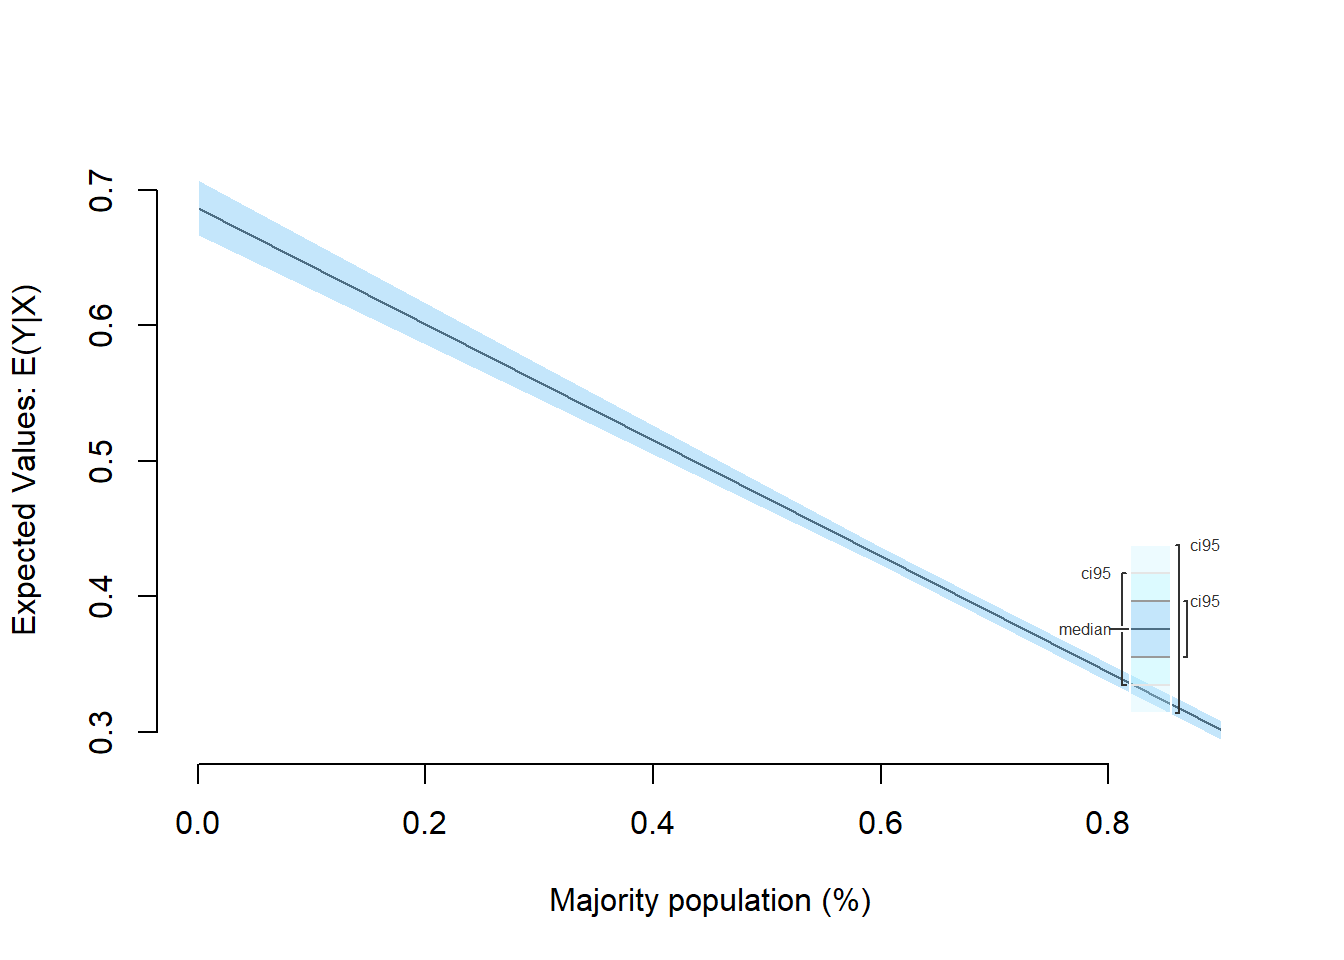
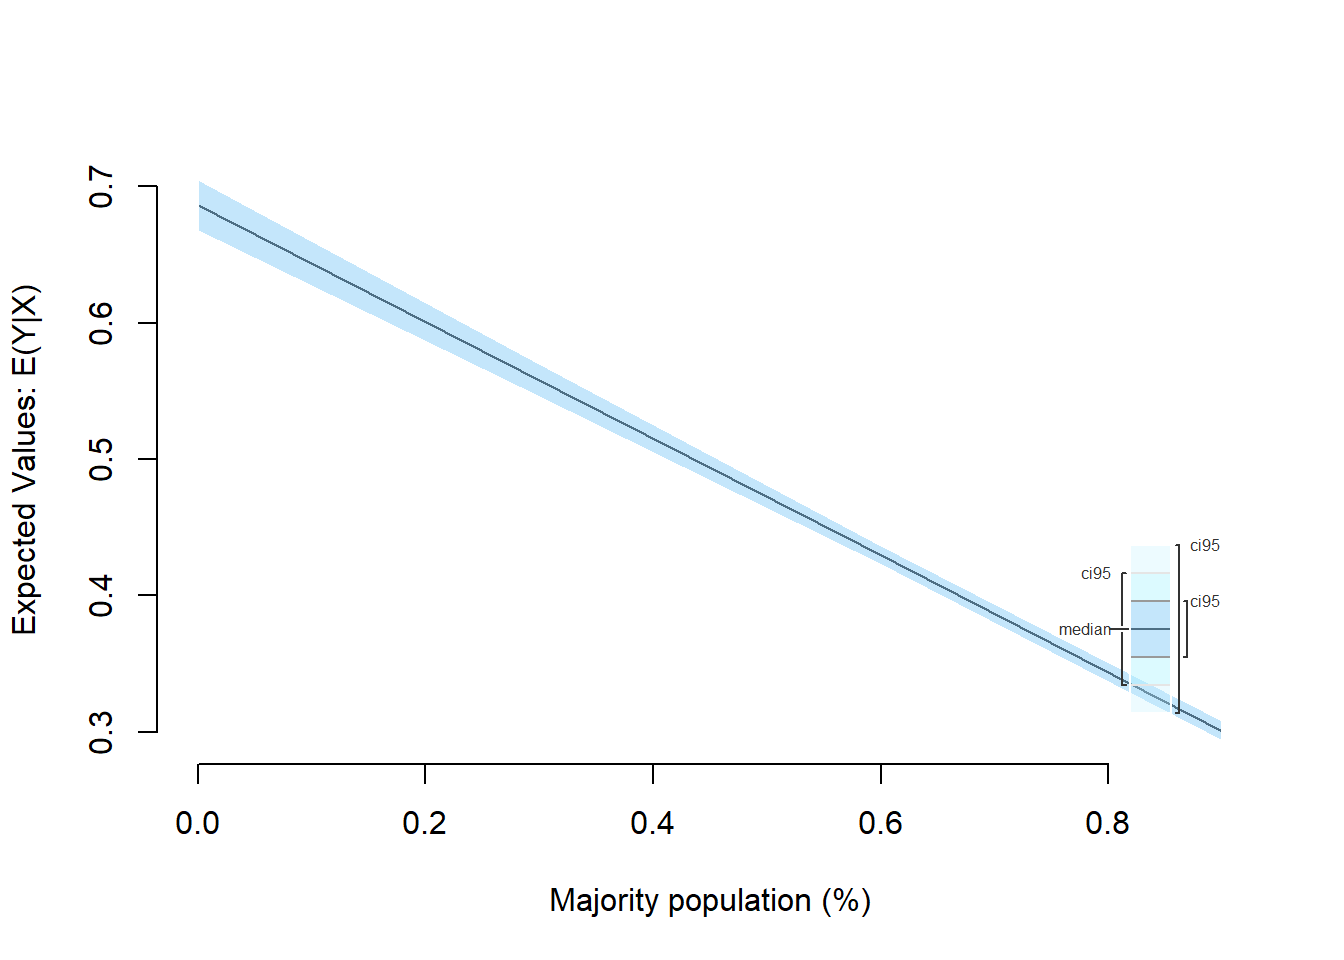
link to plain r cleaned up

diff --git a/day2.html b/day2.html
@@ -263,7 +263,7 @@ $(document).ready(function () {
       <a href="day5.html">Lab</a>
     </li>
     <li>
-      <a href="labs/Lab%Code%5.R">plain R-Code</a>
+      <a href="labs/Lab%20Code%205.R">plain R-Code</a>
     </li>
     <li>
       <a href="./slides/D5%20-%20Model%20Selection%20I.pdf">Slides</a>
@@ -696,11 +696,11 @@ summary(s.out)</code></pre>
 ##  sim range :
 ##  -----
 ## ev
-##        mean         sd       50%      2.5%     97.5%
-## 1 0.6868279 0.01273757 0.6866549 0.6616614 0.7114616
+##        mean         sd       50%     2.5%     97.5%
+## 1 0.6865054 0.01160463 0.6863258 0.662809 0.7096852
 ## pv
-##           mean        sd       50%      2.5%    97.5%
-## [1,] 0.6776478 0.1739603 0.6701791 0.3525095 1.011011
+##           mean        sd      50%      2.5%     97.5%
+## [1,] 0.6824697 0.1703568 0.678133 0.3534483 0.9903902
 ## 
 ## 
 ## [1] 0.3
@@ -710,10 +710,10 @@ summary(s.out)</code></pre>
 ##  -----
 ## ev
 ##        mean          sd       50%      2.5%     97.5%
-## 1 0.5581903 0.008260143 0.5581478 0.5415927 0.5748072
+## 1 0.5579178 0.007576033 0.5579411 0.5427745 0.5729707
 ## pv
-##           mean        sd       50%      2.5%   97.5%
-## [1,] 0.5506821 0.1792598 0.5522179 0.1887618 0.90106
+##           mean        sd       50%      2.5%     97.5%
+## [1,] 0.5555071 0.1766459 0.5493858 0.2073053 0.9250564
 ## 
 ## 
 ## [1] 0.6
@@ -722,11 +722,11 @@ summary(s.out)</code></pre>
 ##  sim range :
 ##  -----
 ## ev
-##        mean          sd      50%      2.5%     97.5%
-## 1 0.4295527 0.004620765 0.429511 0.4207636 0.4390693
+##        mean          sd       50%      2.5%     97.5%
+## 1 0.4293303 0.004432754 0.4293163 0.4209551 0.4380234
 ## pv
-##           mean        sd       50%      2.5%     97.5%
-## [1,] 0.4283976 0.1693321 0.4329685 0.1063255 0.7676454
+##           mean        sd       50%       2.5%     97.5%
+## [1,] 0.4356333 0.1660053 0.4390079 0.08921904 0.7492491
 ## 
 ## 
 ## [1] 0.9
@@ -736,10 +736,10 @@ summary(s.out)</code></pre>
 ##  -----
 ## ev
 ##        mean          sd       50%      2.5%     97.5%
-## 1 0.3009151 0.004648667 0.3010182 0.2918129 0.3101101
+## 1 0.3007428 0.004628873 0.3006053 0.2919925 0.3100264
 ## pv
-##           mean        sd       50%        2.5%     97.5%
-## [1,] 0.2998067 0.1739895 0.2983684 -0.03296612 0.6582875</code></pre>
+##           mean        sd     50%        2.5%     97.5%
+## [1,] 0.3035322 0.1618276 0.29928 -0.01558996 0.6353321</code></pre>
 <pre class="r"><code>ci.plot(s.out, xlab = &quot;Majority population (%)&quot;, ci = 95)</code></pre>
 <p><img src="day2_files/figure-html/unnamed-chunk-22-1.png" width="672" /></p>
 </div>

diff --git a/README.html b/README.html
@@ -262,7 +262,7 @@ $(document).ready(function () {
       <a href="day5.html">Lab</a>
     </li>
     <li>
-      <a href="labs/Lab%Code%5.R">plain R-Code</a>
+      <a href="labs/Lab%20Code%205.R">plain R-Code</a>
     </li>
     <li>
       <a href="./slides/D5%20-%20Model%20Selection%20I.pdf">Slides</a>

diff --git a/day1.html b/day1.html
@@ -263,7 +263,7 @@ $(document).ready(function () {
       <a href="day5.html">Lab</a>
     </li>
     <li>
-      <a href="labs/Lab%Code%5.R">plain R-Code</a>
+      <a href="labs/Lab%20Code%205.R">plain R-Code</a>
     </li>
     <li>
       <a href="./slides/D5%20-%20Model%20Selection%20I.pdf">Slides</a>

diff --git a/day3.html b/day3.html
@@ -263,7 +263,7 @@ $(document).ready(function () {
       <a href="day5.html">Lab</a>
     </li>
     <li>
-      <a href="labs/Lab%Code%5.R">plain R-Code</a>
+      <a href="labs/Lab%20Code%205.R">plain R-Code</a>
     </li>
     <li>
       <a href="./slides/D5%20-%20Model%20Selection%20I.pdf">Slides</a>

diff --git a/day4.html b/day4.html
@@ -263,7 +263,7 @@ $(document).ready(function () {
       <a href="day5.html">Lab</a>
     </li>
     <li>
-      <a href="labs/Lab%Code%5.R">plain R-Code</a>
+      <a href="labs/Lab%20Code%205.R">plain R-Code</a>
     </li>
     <li>
       <a href="./slides/D5%20-%20Model%20Selection%20I.pdf">Slides</a>

diff --git a/day5.html b/day5.html
@@ -263,7 +263,7 @@ $(document).ready(function () {
       <a href="day5.html">Lab</a>
     </li>
     <li>
-      <a href="labs/Lab%Code%5.R">plain R-Code</a>
+      <a href="labs/Lab%20Code%205.R">plain R-Code</a>
     </li>
     <li>
       <a href="./slides/D5%20-%20Model%20Selection%20I.pdf">Slides</a>

diff --git a/day6.html b/day6.html
@@ -263,7 +263,7 @@ $(document).ready(function () {
       <a href="day5.html">Lab</a>
     </li>
     <li>
-      <a href="labs/Lab%Code%5.R">plain R-Code</a>
+      <a href="labs/Lab%20Code%205.R">plain R-Code</a>
     </li>
     <li>
       <a href="./slides/D5%20-%20Model%20Selection%20I.pdf">Slides</a>

diff --git a/index.html b/index.html
@@ -262,7 +262,7 @@ $(document).ready(function () {
       <a href="day5.html">Lab</a>
     </li>
     <li>
-      <a href="labs/Lab%Code%5.R">plain R-Code</a>
+      <a href="labs/Lab%20Code%205.R">plain R-Code</a>
     </li>
     <li>
       <a href="./slides/D5%20-%20Model%20Selection%20I.pdf">Slides</a>

diff --git a/page_A.html b/page_A.html
@@ -262,7 +262,7 @@ $(document).ready(function () {
       <a href="day5.html">Lab</a>
     </li>
     <li>
-      <a href="labs/Lab%Code%5.R">plain R-Code</a>
+      <a href="labs/Lab%20Code%205.R">plain R-Code</a>
     </li>
     <li>
       <a href="./slides/D5%20-%20Model%20Selection%20I.pdf">Slides</a>

diff --git a/simulation.html b/simulation.html
@@ -263,7 +263,7 @@ $(document).ready(function () {
       <a href="day5.html">Lab</a>
     </li>
     <li>
-      <a href="labs/Lab%Code%5.R">plain R-Code</a>
+      <a href="labs/Lab%20Code%205.R">plain R-Code</a>
     </li>
     <li>
       <a href="./slides/D5%20-%20Model%20Selection%20I.pdf">Slides</a>

diff --git a/solutions1.html b/solutions1.html
@@ -263,7 +263,7 @@ $(document).ready(function () {
       <a href="day5.html">Lab</a>
     </li>
     <li>
-      <a href="labs/Lab%Code%5.R">plain R-Code</a>
+      <a href="labs/Lab%20Code%205.R">plain R-Code</a>
     </li>
     <li>
       <a href="./slides/D5%20-%20Model%20Selection%20I.pdf">Slides</a>

diff --git a/solutions2.html b/solutions2.html
@@ -263,7 +263,7 @@ $(document).ready(function () {
       <a href="day5.html">Lab</a>
     </li>
     <li>
-      <a href="labs/Lab%Code%5.R">plain R-Code</a>
+      <a href="labs/Lab%20Code%205.R">plain R-Code</a>
     </li>
     <li>
       <a href="./slides/D5%20-%20Model%20Selection%20I.pdf">Slides</a>
